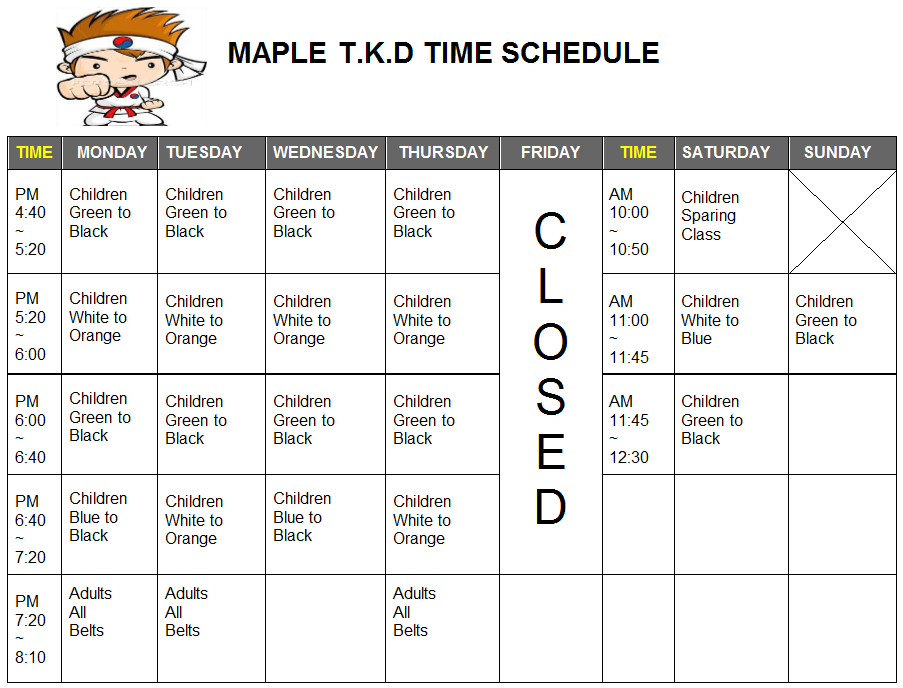
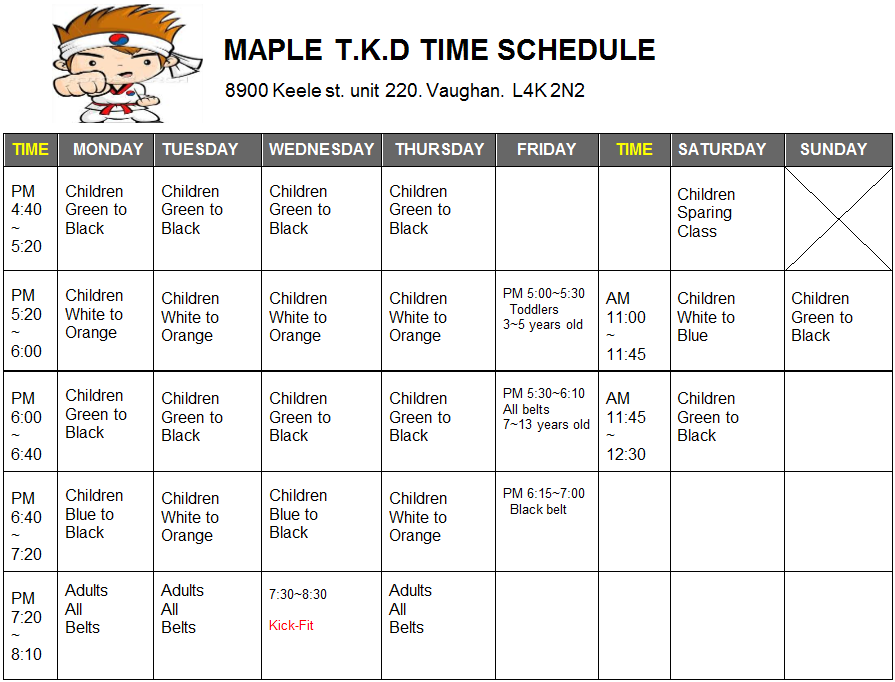
Update to schedule and removal of new location special offer.

diff --git a/index.html b/index.html
@@ -94,8 +94,7 @@
                                         <!-- heading - write some descriptional text -->
                                         <div class="heading col-lg-12" style="padding-bottom: 0px">
 
-                                            <h2>New Location Special!</h2>
-                                            <p>The first 50 new students to register will receive 20% off membership rates and a free uniform.</p>
+                                            <h2>We've Moved To A New Location!</h2>
 
                                             <p>Call or email to book a free trial lesson!</p>
 
